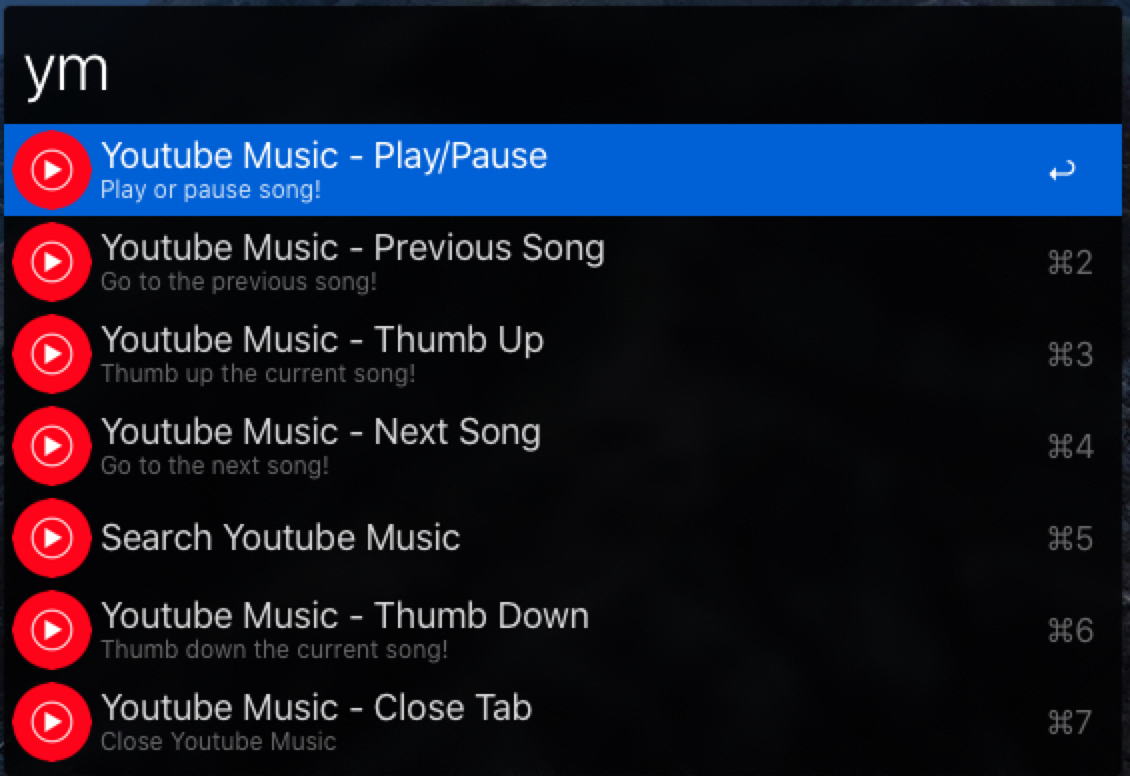
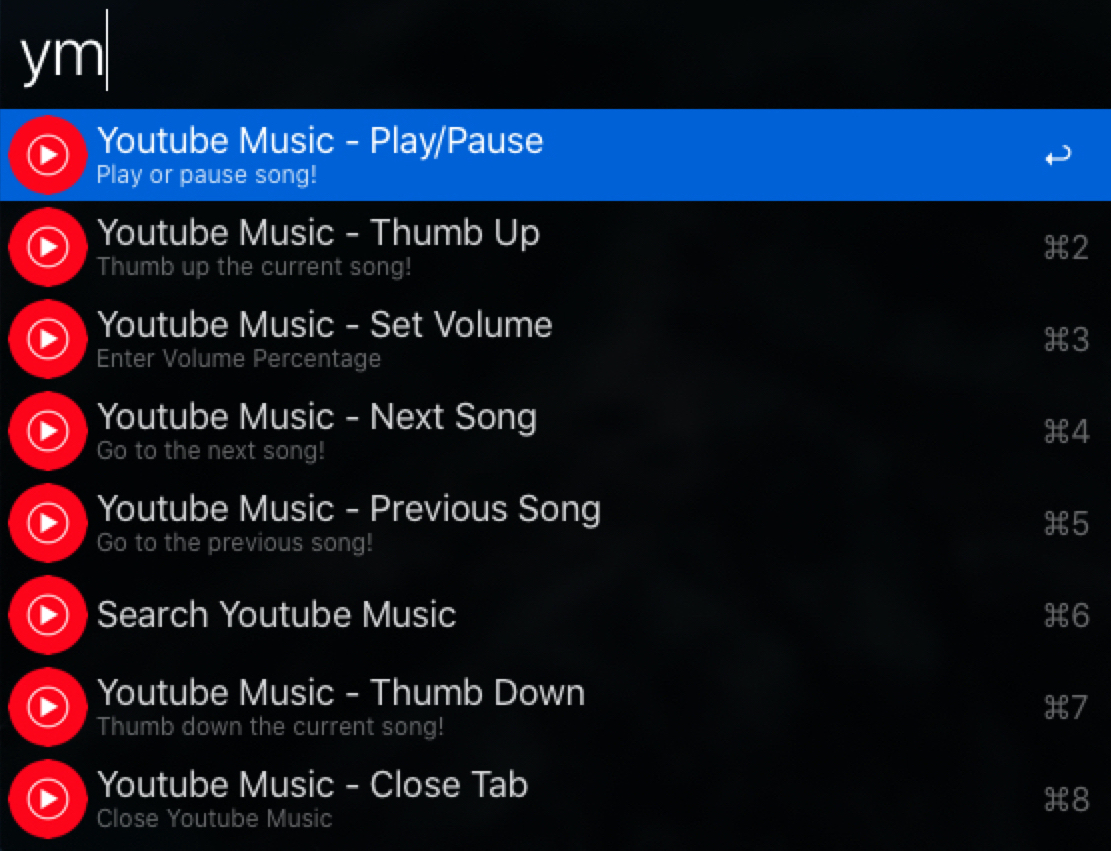
Added volume setting support
- Updated Alfred workflow
- Updated screenshot showing the new method
- Updated documentation accordingly

diff --git a/README.md b/README.md
@@ -11,6 +11,7 @@ The workflow uses the following keywords to control playback in an open Youtube 
 * `ym next`: Next Song
 * `ym+`: Thumbs Up Song
 * `ym-`: Thumbs Down Song
+* `ym vol <volume percentage>`: Set Youtube Music Volume
 * `ym quit`: Close Youtube Music Tab
 * `ym search <search term>`: Search Youtube Music
 
